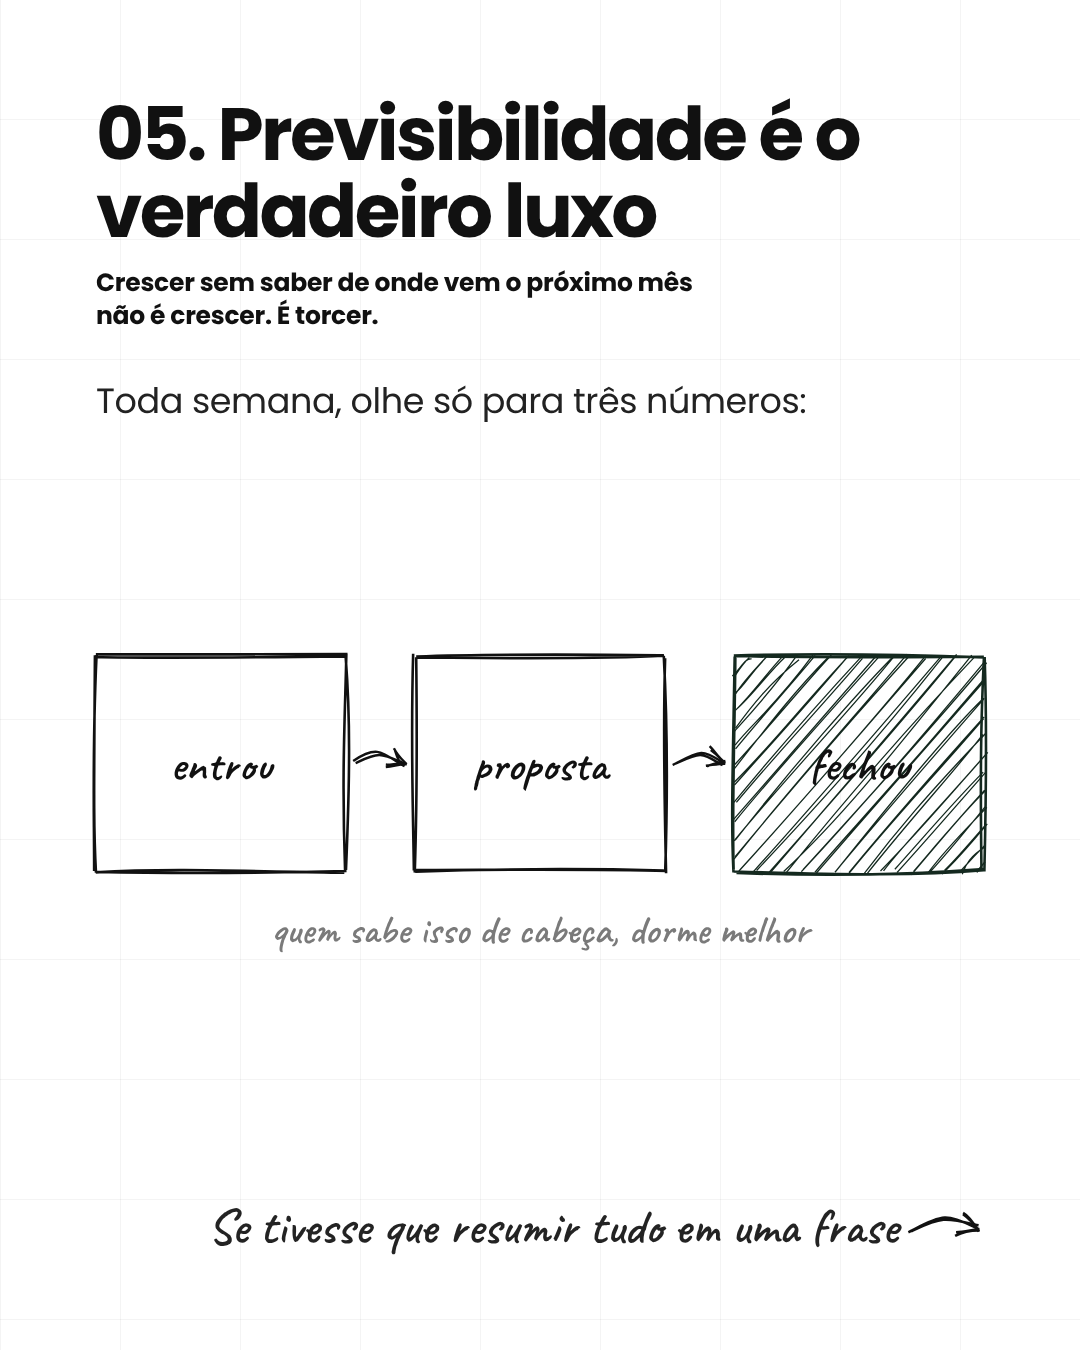
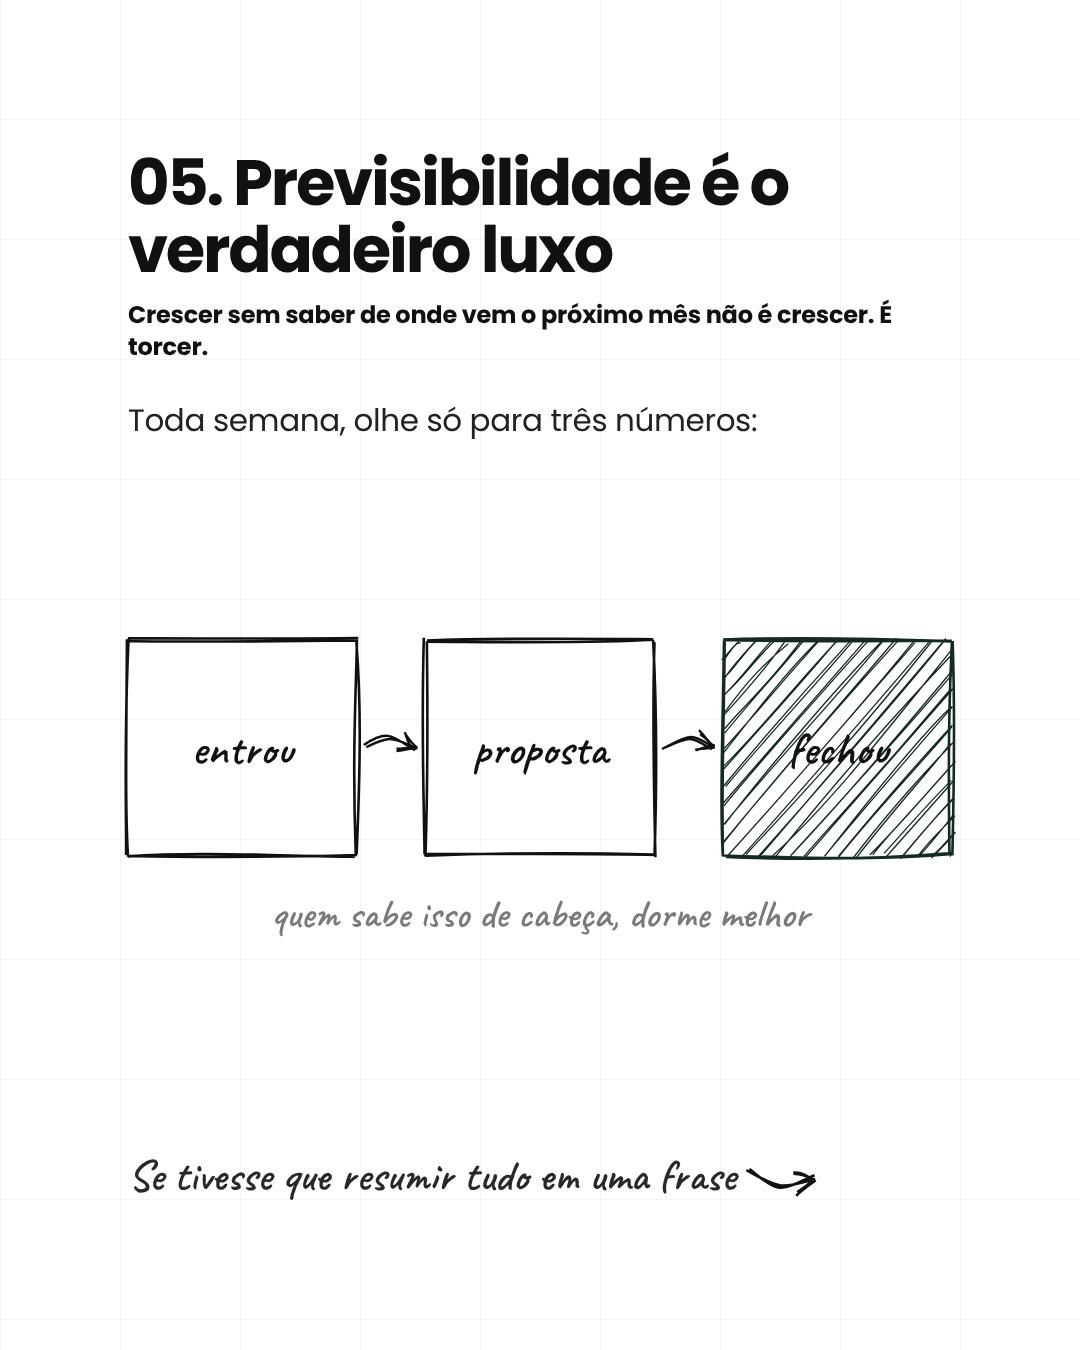
Margens maiores (128/150) e gancho sempre na mesma posição
Claude-Session: https://claude.ai/code/session_01CR2zLXebwu2nvAjBiSDjK9

diff --git a/carrossel/index.html b/carrossel/index.html
@@ -92,7 +92,7 @@ body.render .frame .num{display:none}
 .ft{position:absolute;left:0;right:0;bottom:70px;display:flex;justify-content:center;z-index:5}
 .ft .lb{font:600 23px Poppins,sans-serif;color:var(--ink);letter-spacing:-.005em}
 /* corpo do slide de conteúdo */
-.body{position:absolute;left:96px;right:96px;top:190px;bottom:150px;display:flex;flex-direction:column;justify-content:center;padding-bottom:40px}
+.body{position:absolute;left:128px;right:128px;top:190px;bottom:190px;display:flex;flex-direction:column;justify-content:center;padding-bottom:40px}
 .kick{font:600 21px Poppins,sans-serif;letter-spacing:.38em;text-transform:uppercase;color:var(--ac);margin-bottom:34px}
 .ttl{font:700 74px/1.04 Poppins,sans-serif;letter-spacing:-.035em;margin:0;color:var(--ink);max-width:820px}
 .ttl .n{letter-spacing:-.04em}
@@ -105,17 +105,15 @@ body.render .frame .num{display:none}
 .lst .ds{color:var(--muted)}
 .lst .no{font-weight:700;color:var(--ink);margin-right:18px}
 .pics{display:flex;gap:20px;margin-top:44px}
-.body.flow{top:96px;bottom:96px;left:96px;right:96px;justify-content:flex-start;padding-bottom:0}
+.body.flow{top:150px;bottom:150px;left:128px;right:128px;justify-content:flex-start;padding-bottom:0}
+.flow .ttl{font-size:64px}
+.flow .st{font-size:24px;max-width:100%}
+.flow .txt{font-size:31px;margin-top:38px}
 .draw{position:relative;width:100%;flex:1 1 auto;min-height:220px;max-height:430px;margin:auto 0}
 .spacer{flex:1 1 auto}
 .ovl{position:absolute;left:0;top:0;width:1080px;height:1350px;z-index:6;pointer-events:none;overflow:visible}
 .ovl text{font-family:Caveat,cursive;font-weight:600}
-.gancho{position:relative;z-index:5;margin-top:34px;font:600 50px/1.1 Caveat,cursive;color:var(--ink);opacity:.92;max-width:100%}
-.g0{align-self:flex-end;padding-right:86px;text-align:right}
-.g1{align-self:flex-start;padding-bottom:78px}
-.g2{align-self:center;text-align:center;padding-bottom:74px}
-.g3{align-self:flex-end;padding:12px 28px 14px;margin-right:84px;white-space:nowrap;font-size:44px}
-.g4{align-self:flex-start;padding-right:86px;padding-bottom:16px}
+.gancho{position:relative;z-index:5;margin-top:36px;align-self:flex-start;padding-right:84px;font:600 44px/1.1 Caveat,cursive;color:var(--ink);opacity:.9;max-width:100%}
 .hc,.hu{position:relative;white-space:nowrap}
 .pics.first{margin-top:0;margin-bottom:48px}
 .pic{flex:1;min-width:0;border-radius:22px;overflow:hidden;background:#e6e6e6}
@@ -272,7 +270,6 @@ const TIPOS = {
     ["desenho","sel","Desenho à mão",["","alvo","funil","bolhas","grafico","pipeline"]],
     ["rotulos","text","Rótulos do desenho (separe com |)"],
     ["gancho","area","Gancho para o próximo slide (letra de mão)"],
-    ["gancho_estilo","sel","Estilo do gancho (vazio = alterna)",["","0","1","2","3","4"]],
     ["rodape","text","Rodapé (opcional)"],
   ]},
   foto:{nome:"Foto cheia", campos:[
@@ -401,7 +398,7 @@ function renderSlide(s, i, total){
       ${corpo}
       ${pos==="depois do texto"?pics:""}
       ${s.desenho?`<div class="draw" data-kind="${esc(s.desenho)}" data-labels="${esc(s.rotulos||"")}"></div>`:`<div class="spacer"></div>`}
-      ${s.gancho?`<div class="gancho g${s.gancho_estilo!=null&&s.gancho_estilo!==""?Number(s.gancho_estilo)%5:i%5}">${fmt(s.gancho)}</div>`:""}
+      ${s.gancho?`<div class="gancho" data-v="${i}">${fmt(s.gancho)}</div>`:""}
     </div>
     ${footer(s.rodape)}
   </div>`;
@@ -439,16 +436,10 @@ function drawAll(root){
       add(rc.line(x2,y2,x2-L*Math.cos(a-0.5),y2-L*Math.sin(a-0.5),O({strokeWidth:2.6,...o})));
       add(rc.line(x2,y2,x2-L*Math.cos(a+0.5),y2-L*Math.sin(a+0.5),O({strokeWidth:2.6,...o})))};
     const g=sl.querySelector(".gancho");
-    if(g){const b=offs(g,sl); const r=b.x+b.w, my=b.y+b.h*.5;
-      if(g.classList.contains("g0")){ head([[r-74,my+4],[r-40,my-8],[r-6,my+2]]) }
-      else if(g.classList.contains("g1")){ const sx=b.x+30, sy=b.y+b.h-62;
-        head([[sx,sy+6],[sx+26,sy+44],[sx+4,sy+58],[sx-6,sy+34],[sx+70,sy+44],[sx+200,sy+40],[sx+300,sy+20]]) }
-      else if(g.classList.contains("g2")){ const sx=b.x+b.w*.5, sy=b.y+b.h-60;
-        head([[sx-80,sy],[sx,sy+40],[sx+90,sy+36],[sx+150,sy+8]]) }
-      else if(g.classList.contains("g3")){ add(rc.rectangle(b.x,b.y,b.w,b.h,O({strokeWidth:2.4,roughness:1.8})));
-        head([[r+6,my],[r+40,my-14],[r+76,my+6]]) }
-      else { add(rc.curve([[b.x,b.y+b.h-6],[b.x+b.w*.5,b.y+b.h+2],[r-90,b.y+b.h-8]],O({stroke:ac,strokeWidth:3})));
-        head([[r-74,my+6],[r-44,my-6],[r-8,my+4]]) }
+    if(g){const b=offs(g,sl); const r=b.x+b.w, my=b.y+b.h*.55, v=+(g.dataset.v||0)%3;
+      if(v===0) head([[r-70,my+2],[r-38,my-6],[r-6,my+2]]);
+      else if(v===1) head([[r-72,my+8],[r-50,my-6],[r-28,my+6],[r-6,my-2]]);
+      else head([[r-72,my-10],[r-40,my+8],[r-6,my]]);
     }
     // desenhos
     sl.querySelectorAll(".draw").forEach(d=>{

diff --git a/carrossel/ESTILO.md b/carrossel/ESTILO.md
@@ -68,6 +68,5 @@ O slide 1 do roteiro usa `"tipo": "pronta"` apontando para `capa/capa.png`.
   `alvo` (lista riscada → alvo), `funil` (funil com furos), `bolhas` (pequeno vs grande), `grafico` (curva caindo), `pipeline` (3 etapas).
 - Marcações no texto: `[[palavra]]` = círculo à mão · `{{palavra}}` = sublinhado à mão.
 - Um desenho por slide no máximo; ele ocupa o espaço livre entre o texto e o gancho, centralizado.
-- **Margens proporcionais:** 96 px nos 4 lados. Título começa na margem de cima; gancho apoia na margem de baixo.
-- **Gancho varia** de slide para slide (alterna sozinho, ou fixe com `"gancho_estilo"` 0–4):
-  0 direita + seta curta · 1 esquerda + seta com laço · 2 centro + seta curva embaixo · 3 dentro de caixa à mão + seta · 4 esquerda sublinhado + seta.
+- **Margens:** 128 px nas laterais e 150 px em cima e embaixo. Tudo alinhado à mesma margem esquerda.
+- **Gancho:** sempre na mesma posição (embaixo, alinhado à esquerda com o texto), letra de mão + seta curta; só o traço da seta varia levemente.
